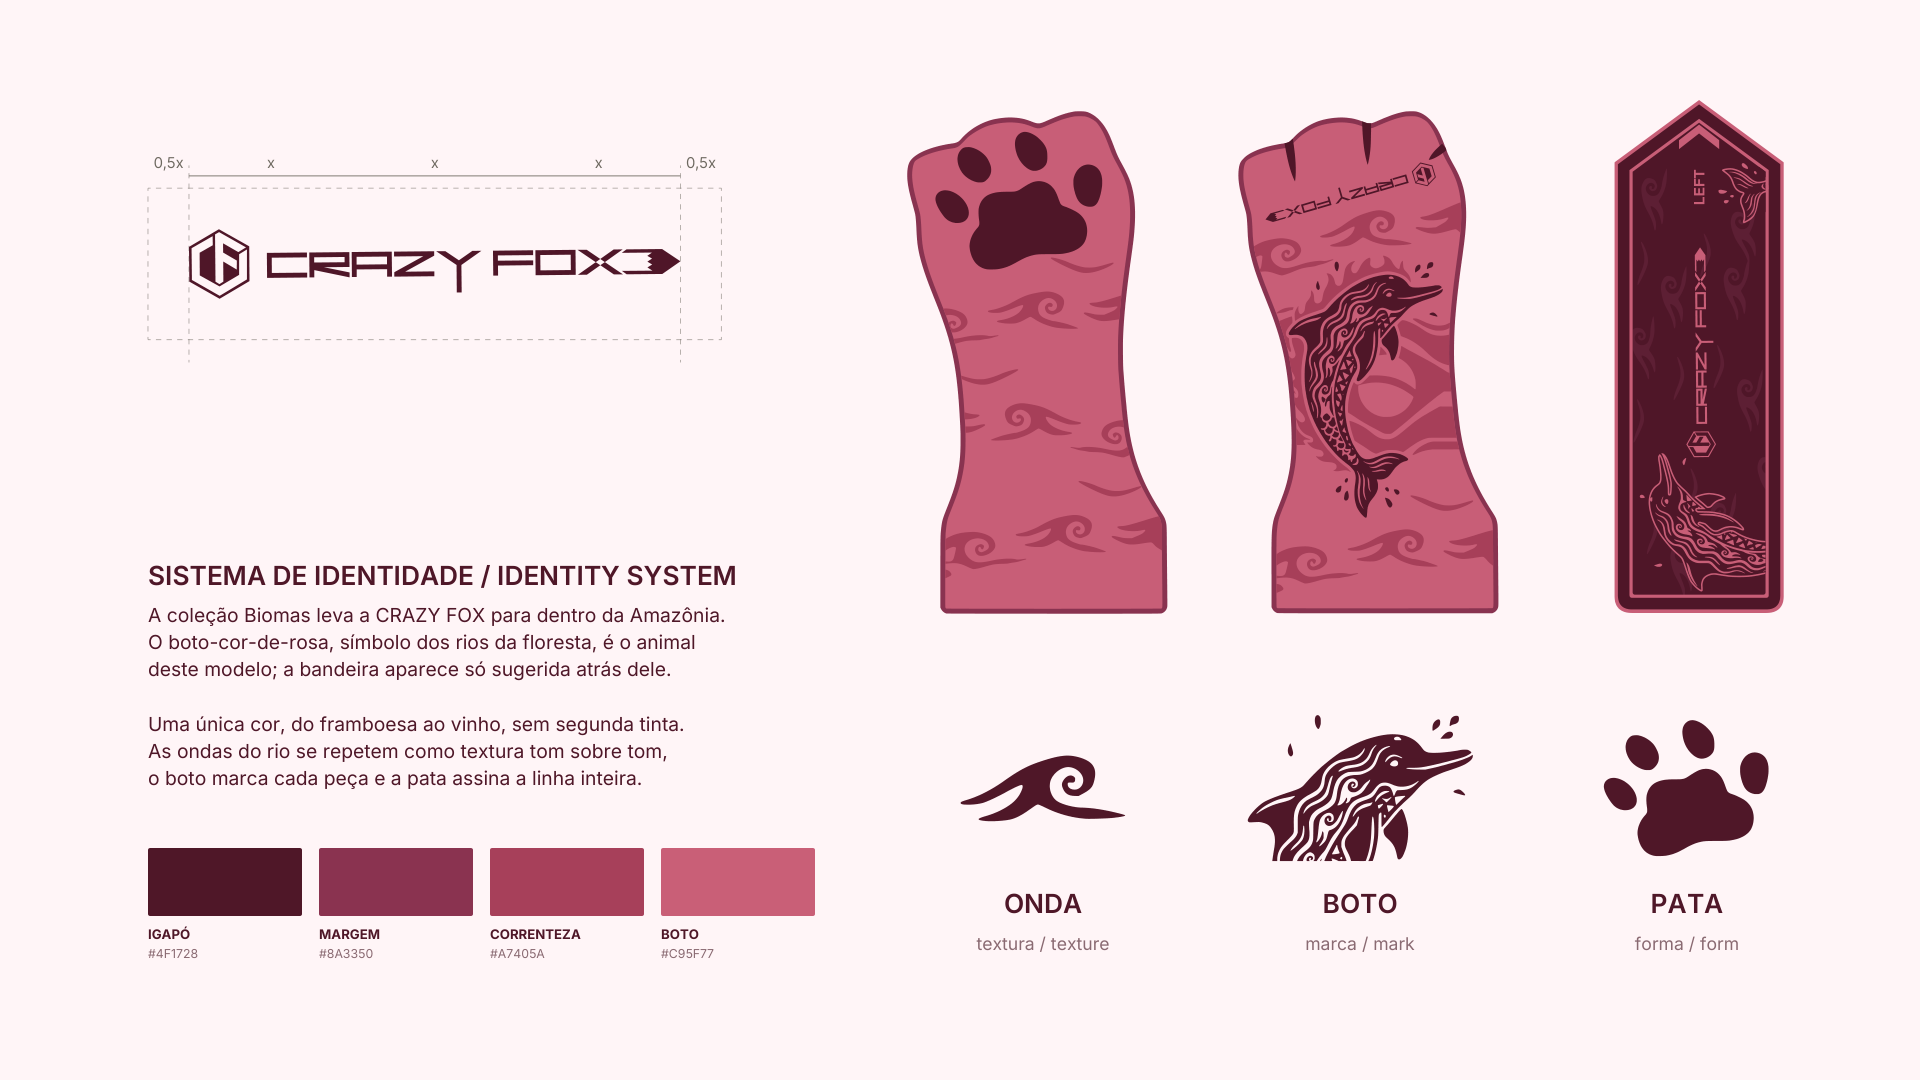
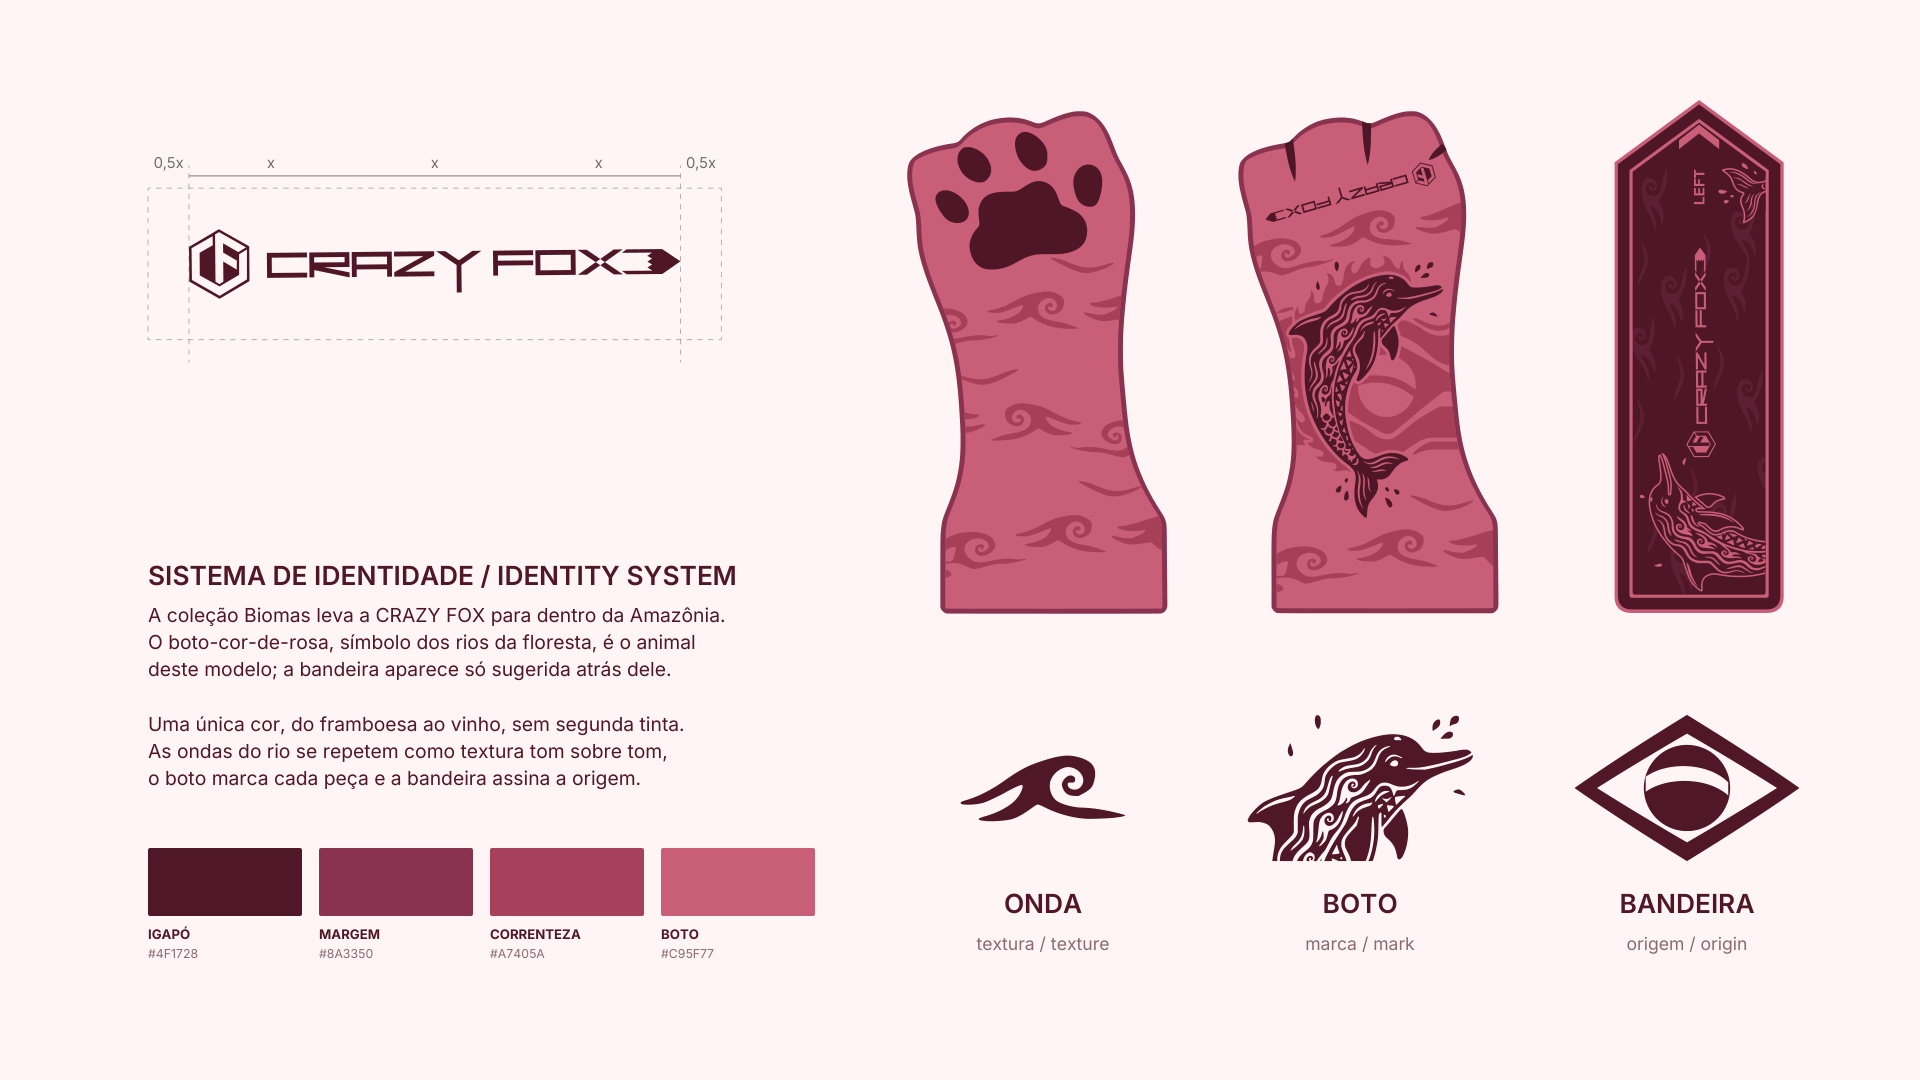
Prancha do Boto: troca símbolo PATA pela BANDEIRA
Claude-Session: https://claude.ai/code/session_01SuZ3fEwY5fHFcvbpQMUVNP

Changed region(s): [[0.8125, 0.6722, 0.9375, 0.7944], [0.8438, 0.825, 0.9062, 0.8861], [0.2188, 0.7028, 0.3438, 0.7333]]

diff --git a/vetores/boto-amazonia/fonte/prancha.py b/vetores/boto-amazonia/fonte/prancha.py
@@ -13,7 +13,12 @@ n,lab,st,_=cv2.connectedComponentsWithStats(m); big=1+np.argmax(st[1:,4])
 onda=trace(lab==big,box)
 box2=(90,245,340,420)
 head=trace(mask([(drawing_d(V[3]),'')],box2)&mask([('M90 245H340V405H90Z','')],box2),box2)
-pata=drawing_d(E[77])
+# bandeira conceitual: losango de lados curvos + círculo com faixa curva vazada
+def rh(cx,cy,w,h,b):
+    return (f'M{cx-w} {cy}Q{cx-w/2-b} {cy-h/2+b*0.4} {cx} {cy-h}Q{cx+w/2+b} {cy-h/2+b*0.4} {cx+w} {cy}'
+            f'Q{cx+w/2+b} {cy+h/2-b*0.4} {cx} {cy+h}Q{cx-w/2-b} {cy+h/2-b*0.4} {cx-w} {cy}Z')
+band='M-44 -12C-22 -28 22 -28 44 -6L44 8C22 -12 -22 -12 -44 4Z'
+bandeira=rh(0,0,120,78,10)+' '+rh(0,0,96,58,6)+' M-46 0A46 46 0 1 1 46 0A46 46 0 1 1 -46 0Z '+band
 def sym_pdf(d,bb):
     x0,y0,x1,y1=bb
     svg=f'<svg xmlns="http://www.w3.org/2000/svg" viewBox="{x0} {y0} {x1-x0} {y1-y0}" width="{x1-x0}" height="{y1-y0}"><path fill="{DARK}" fill-rule="evenodd" d="{d}"/></svg>'
@@ -32,7 +37,7 @@ def txt(x,y,s,size,w='r',color=DARK,center=False):
     p.insert_text((x,y),s,fontname='I'+w,fontsize=size,color=rgb(color) if isinstance(color,str) else color)
 txt(148,585,'SISTEMA DE IDENTIDADE / IDENTITY SYSTEM',26.3,'s')
 body1=['A coleção Biomas leva a CRAZY FOX para dentro da Amazônia.','O boto-cor-de-rosa, símbolo dos rios da floresta, é o animal','deste modelo; a bandeira aparece só sugerida atrás dele.']
-body2=['Uma única cor, do framboesa ao vinho, sem segunda tinta.','As ondas do rio se repetem como textura tom sobre tom,','o boto marca cada peça e a pata assina a linha inteira.']
+body2=['Uma única cor, do framboesa ao vinho, sem segunda tinta.','As ondas do rio se repetem como textura tom sobre tom,','o boto marca cada peça e a bandeira assina a origem.']
 for i,l in enumerate(body1): txt(148,622+27*i,l,19.3)
 for i,l in enumerate(body2): txt(148,731+27*i,l,19.3)
 pal=[('IGAPÓ','#4F1728'),('MARGEM','#8A3350'),('CORRENTEZA','#A7405A'),('BOTO','#C95F77')]
@@ -40,10 +45,10 @@ for i,(nm,h) in enumerate(pal):
     x=148+171*i
     p.draw_rect(pymupdf.Rect(x,848,x+154,916),color=None,fill=rgb(h),radius=0.03)
     txt(x,939,nm,13.2,'b'); txt(x,958,h,12.3,'r',GREY)
-syms=[('ONDA','textura / texture',onda,1043),('BOTO','marca / mark',head,1360),('PATA','forma / form',pata,1687)]
+syms=[('ONDA','textura / texture',onda,1043),('BOTO','marca / mark',head,1360),('BANDEIRA','origem / origin',bandeira,1687)]
 for nm,sub,d,cx in syms:
     bb=bbox_of(d); w,h=bb[2]-bb[0],bb[3]-bb[1]
-    sc=min(260/w,150/h) if nm=='BOTO' else min(170/w,150/h)
+    sc=min(260/w,150/h) if nm=='BOTO' else (min(230/w,150/h) if nm=='BANDEIRA' else min(170/w,150/h))
     W,H=w*sc,h*sc
     p.show_pdf_page(pymupdf.Rect(cx-W/2,788-H/2,cx+W/2,788+H/2),sym_pdf(d,bb),0)
     txt(cx,913,nm,26.3,'s',center=True); txt(cx,950,sub,17.6,'r',GREY,center=True)
